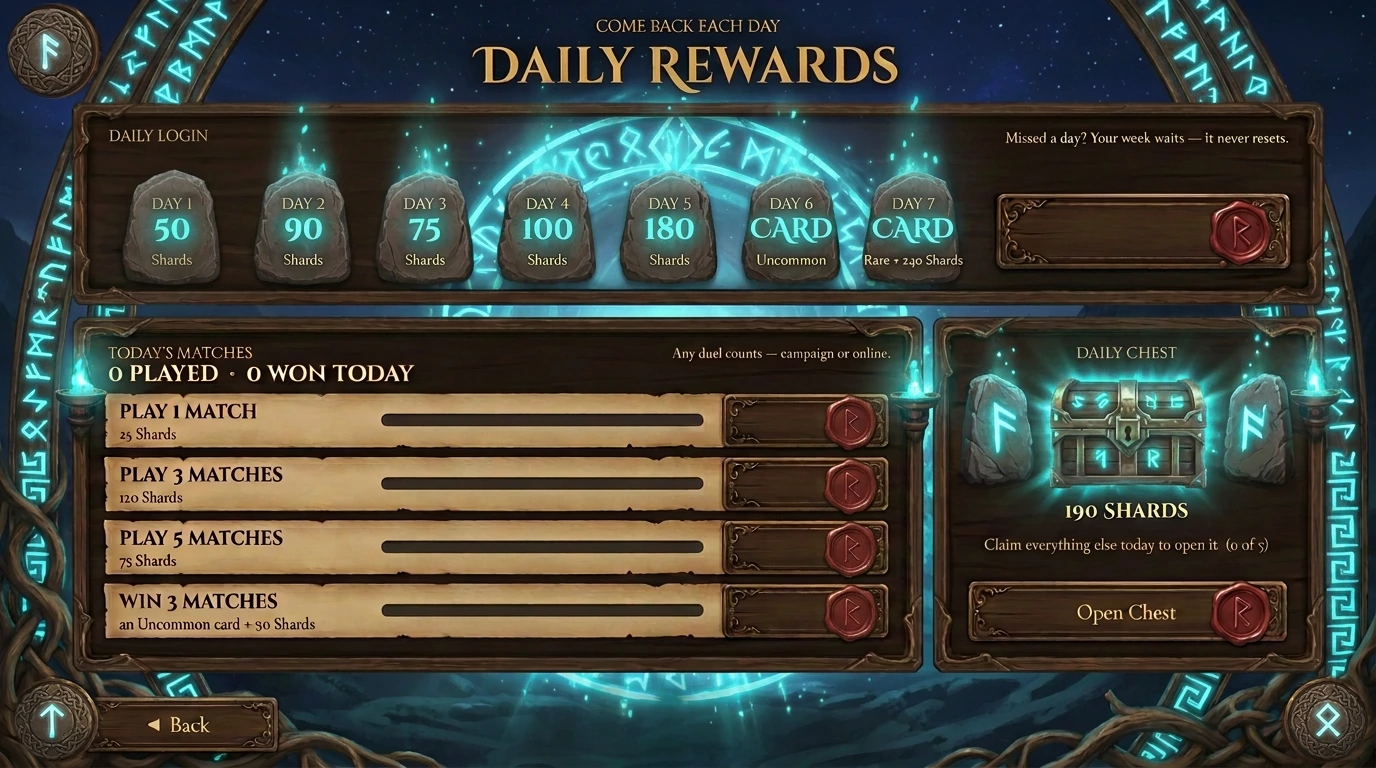
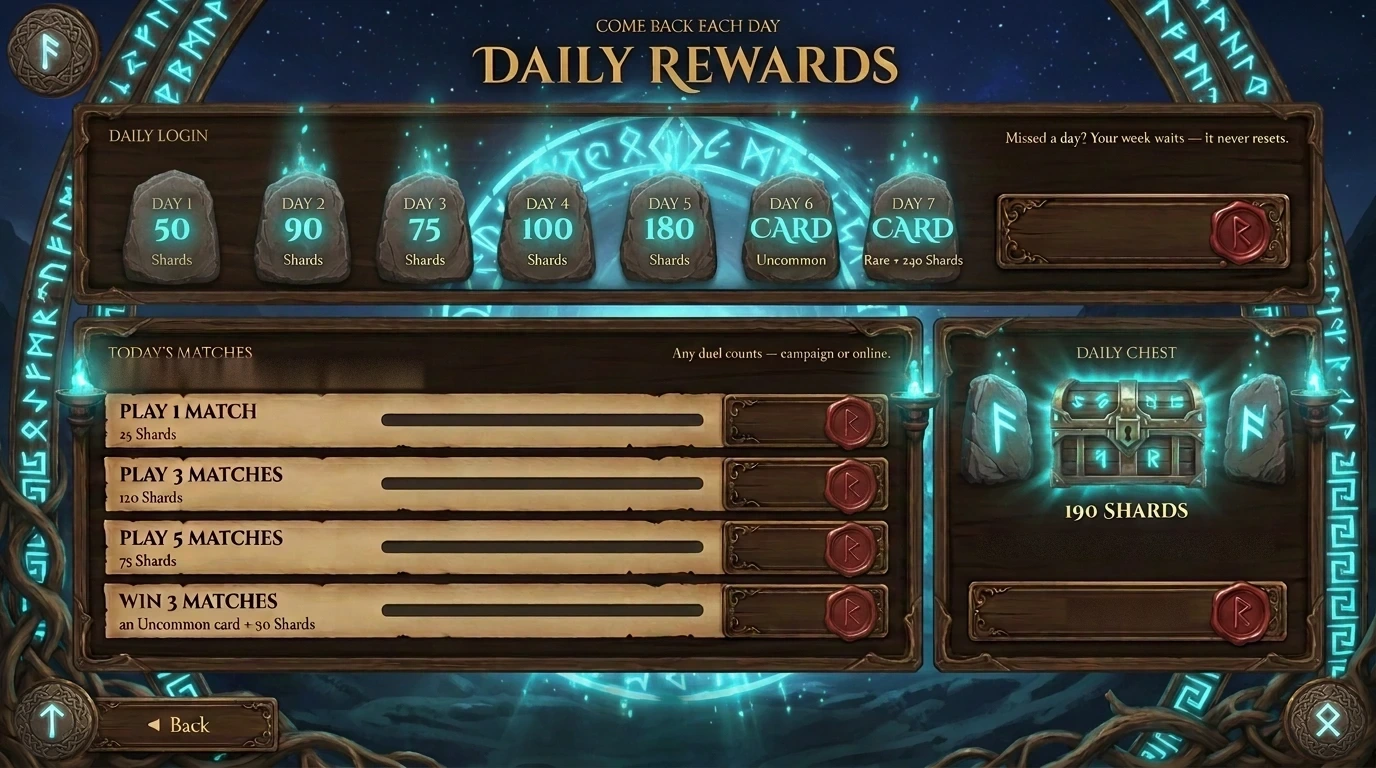
FABLE-098: the four paintings finished - Settings, Daily Rewards, Deck Forge and the Reliquary codex, every word the game writes painted out once, nothing doubled
Claude-Session: https://claude.ai/code/session_01VNwHMtECA3drs76DyK6jbu

Changed region(s): [[0.0625, 0.4375, 0.3125, 0.5312], [0.7188, 0.6875, 0.9375, 0.7188], [0.7812, 0.7812, 0.875, 0.8125]]

diff --git a/tools/plate_fix_098.py b/tools/plate_fix_098.py
@@ -1,0 +1,76 @@
+# FABLE-098: the finishing touches on the 097 paintings - the few painted words and marks that change in play (or doubled
+# what the game draws) are painted out with the painting's own neighbouring surface. Deterministic; no generator.
+import sys
+import numpy as np
+from PIL import Image
+import cv2
+screens = sys.argv[1]
+def load(n): return np.array(Image.open(f"{screens}/{n}.webp").convert("RGB")).astype(np.float32)
+def save(a, n): Image.fromarray(np.clip(a, 0, 255).astype(np.uint8)).save(f"{screens}/{n}.webp", quality=93)
+def copy(a, x0, y0, x1, y1, dx, dy, feather=3):
+    """paint the box with the same-sized patch dx,dy away, feathered at the edges"""
+    patch = a[y0 + dy:y1 + dy, x0 + dx:x1 + dx].copy()
+    m = np.zeros(patch.shape[:2], np.float32); f = feather
+    m[f:-f or None, f:-f or None] = 1
+    m = cv2.GaussianBlur(m, (0, 0), max(1, f / 1.5))[..., None]
+    a[y0:y1, x0:x1] = a[y0:y1, x0:x1] * (1 - m) + patch * m
+def smooth(a, x0, y0, x1, y1, sx=10, sy=3, grain=3.0, feather=5, seed=98):
+    pad = 24; H, W = a.shape[:2]
+    X0, Y0, X1, Y1 = max(0, x0 - pad), max(0, y0 - pad), min(W, x1 + pad), min(H, y1 + pad)
+    reg = a[Y0:Y1, X0:X1]
+    # fill the box from the rows just above and below it (wood grain runs across), then soften
+    fill = reg.copy()
+    top, bot = reg[y0 - Y0 - 6:y0 - Y0 - 2].mean(0), reg[y1 - Y0 + 2:y1 - Y0 + 6].mean(0)
+    for i, y in enumerate(range(y0 - Y0, y1 - Y0)):
+        t = (i + 0.5) / max(1, (y1 - y0))
+        fill[y] = top * (1 - t) + bot * t
+    fill = cv2.GaussianBlur(fill, (0, 0), sigmaX=sx / 3, sigmaY=sy / 3)
+    fill += np.random.default_rng(seed).normal(0, grain, fill.shape[:2])[..., None]
+    m = np.zeros(reg.shape[:2], np.float32); m[y0 - Y0:y1 - Y0, x0 - X0:x1 - X0] = 1
+    m = cv2.GaussianBlur(m, (0, 0), feather)[..., None]
+    a[Y0:Y1, X0:X1] = reg * (1 - m) + fill * m
+
+# Settings: the four arrows where the sliders' percentages go, and the arrow under the Reduce-motion switch
+s = load("SettingsScene_words")
+for y in (296, 353, 410, 467): copy(s, 632, y - 13, 654, y + 13, -24, 0)
+copy(s, 1084, 288, 1110, 312, -30, 0)
+save(s, "SettingsScene_words")
+
+# Daily Rewards: today's tally and the chest's "claim everything" line are the game's to write (they change)
+r = load("RewardsScene_words")
+smooth(r, 100, 357, 424, 389, feather=2)
+smooth(r, 976, 533, 1276, 559, sy=2, feather=2)
+save(r, "RewardsScene_words")
+
+# Deck Forge: "✓ Playing" (the game writes Play this / Playing), and the gold ring painted on the first card slot
+d = load("DeckBuilderScene_words")
+smooth(d, 1080, 709, 1148, 735, sx=6, sy=2, grain=2, feather=2)
+copy(d, 366, 116, 492, 294, 104, 0, feather=3)
+# the last sliver of that ring, left of the box: inpainted from the felt around it
+box = d[110:300, 356:386].astype(np.uint8)
+lum = box.mean(2); mask = ((lum > np.median(lum) + 22)).astype(np.uint8) * 255
+mask = cv2.dilate(mask, np.ones((3, 3), np.uint8))
+d[110:300, 356:386] = cv2.inpaint(np.ascontiguousarray(box), mask, 4, cv2.INPAINT_TELEA).astype(np.float32)
+save(d, "DeckBuilderScene_words")
+print("098 plates finished")
+
+# Deck Forge tray: the painting has 27 empty deck cells (9 x 3) but a deck holds 30 - the game lays its own 30, so the
+# painted cells become plain tray wood (the empty strip of the same tray, mirrored across)
+d = load("DeckBuilderScene_words")
+src = d[570:648, 338:438].copy()                                  # clean tray wood left of the artifacts (under YOUR DECK)
+H, W = 737 - 543, 1032 - 618
+tile = np.concatenate([src, src[:, ::-1]], axis=1)
+tile = np.concatenate([tile, tile[::-1]], axis=0)
+reps = (int(np.ceil(H / tile.shape[0])) + 1, int(np.ceil(W / tile.shape[1])) + 1, 1)
+wood = np.tile(tile, reps)[:H, :W]
+wood = cv2.GaussianBlur(wood, (0, 0), 0.6)
+m = np.zeros((H, W), np.float32); m[5:-5, 5:-5] = 1; m = cv2.GaussianBlur(m, (0, 0), 3)[..., None]
+d[543:737, 618:1032] = d[543:737, 618:1032] * (1 - m) + wood * m
+save(d, "DeckBuilderScene_words")
+print("098 tray cells painted out")
+
+# Daily Rewards: the painting kept "Open Chest" on its plaque - the game writes it (it becomes "Opened")
+r = load("RewardsScene_words")
+smooth(r, 1066, 597, 1190, 628, sx=8, sy=2, grain=2, feather=2)
+save(r, "RewardsScene_words")
+print("098 open-chest word painted out")

diff --git a/tools/plate_reliquary_098.py b/tools/plate_reliquary_098.py
@@ -1,0 +1,35 @@
+# FABLE-098: the Reliquary painting with its own lettering - the approved codex (v2) with its cards, numbers and counts
+# taken from the 087 clean page (same painting, cards erased), the shards count painted out, and the two lit tabs
+# (Cards, Everything) turned to the dark style of the rest so the game's gold ring alone shows the choice.
+import sys
+import numpy as np
+from PIL import Image
+import cv2
+v2, clean, out = sys.argv[1:4]
+A = np.array(Image.open(v2).convert("RGB").resize((1376, 768), Image.LANCZOS)).astype(np.float32)
+C = np.array(Image.open(clean).convert("RGB").resize((1376, 768), Image.LANCZOS)).astype(np.float32)
+def paste(x0, y0, x1, y1, f=6):
+    m = np.zeros((y1 - y0, x1 - x0), np.float32); m[f:-f, f:-f] = 1
+    m = cv2.GaussianBlur(m, (0, 0), f / 2)[..., None]
+    A[y0:y1, x0:x1] = A[y0:y1, x0:x1] * (1 - m) + C[y0:y1, x0:x1] * m
+paste(250, 203, 1128, 590)          # the two pages' card rows: cards, numbers, NEW tags, captions
+paste(915, 160, 1125, 212, f=4)     # the ribbon's count and bar
+# the shards plaque: its words painted out with the plaque's own dark interior
+y0, y1, x0, x1 = 707, 733, 628, 760
+top, bot = A[y0 - 4:y0 - 1, x0:x1].mean(0), A[y1 + 1:y1 + 4, x0:x1].mean(0)
+fill = np.stack([top * (1 - (i + .5) / (y1 - y0)) + bot * ((i + .5) / (y1 - y0)) for i in range(y1 - y0)])
+fill = cv2.GaussianBlur(fill, (0, 0), 2) + np.random.default_rng(98).normal(0, 2, fill.shape[:2])[..., None]
+m = np.zeros(fill.shape[:2], np.float32); m[2:-2, 3:-3] = 1; m = cv2.GaussianBlur(m, (0, 0), 1.5)[..., None]
+A[y0:y1, x0:x1] = A[y0:y1, x0:x1] * (1 - m) + fill * m
+# the two lit tabs -> dark wood with cream words, like their neighbours
+dark = np.array([58, 50, 40], np.float32); cream = np.array([226, 214, 182], np.float32)
+for (x0, y0, x1, y1) in [(320, 89, 393, 127), (824, 97, 892, 122)]:
+    reg = A[y0:y1, x0:x1]; L = reg.mean(2)
+    bg = np.median(L); dev = np.abs(L - bg)
+    t = np.clip(dev / max(12.0, np.percentile(dev, 99)), 0, 1)[..., None]
+    t = np.clip((t - 0.15) / 0.7, 0, 1)
+    new = dark * (1 - t) + cream * t
+    m = np.zeros(L.shape, np.float32); m[2:-2, 2:-2] = 1; m = cv2.GaussianBlur(m, (0, 0), 1.2)[..., None]
+    A[y0:y1, x0:x1] = reg * (1 - m) + new * m
+Image.fromarray(np.clip(A, 0, 255).astype(np.uint8)).save(out, quality=93)
+print("reliquary words plate", out)
